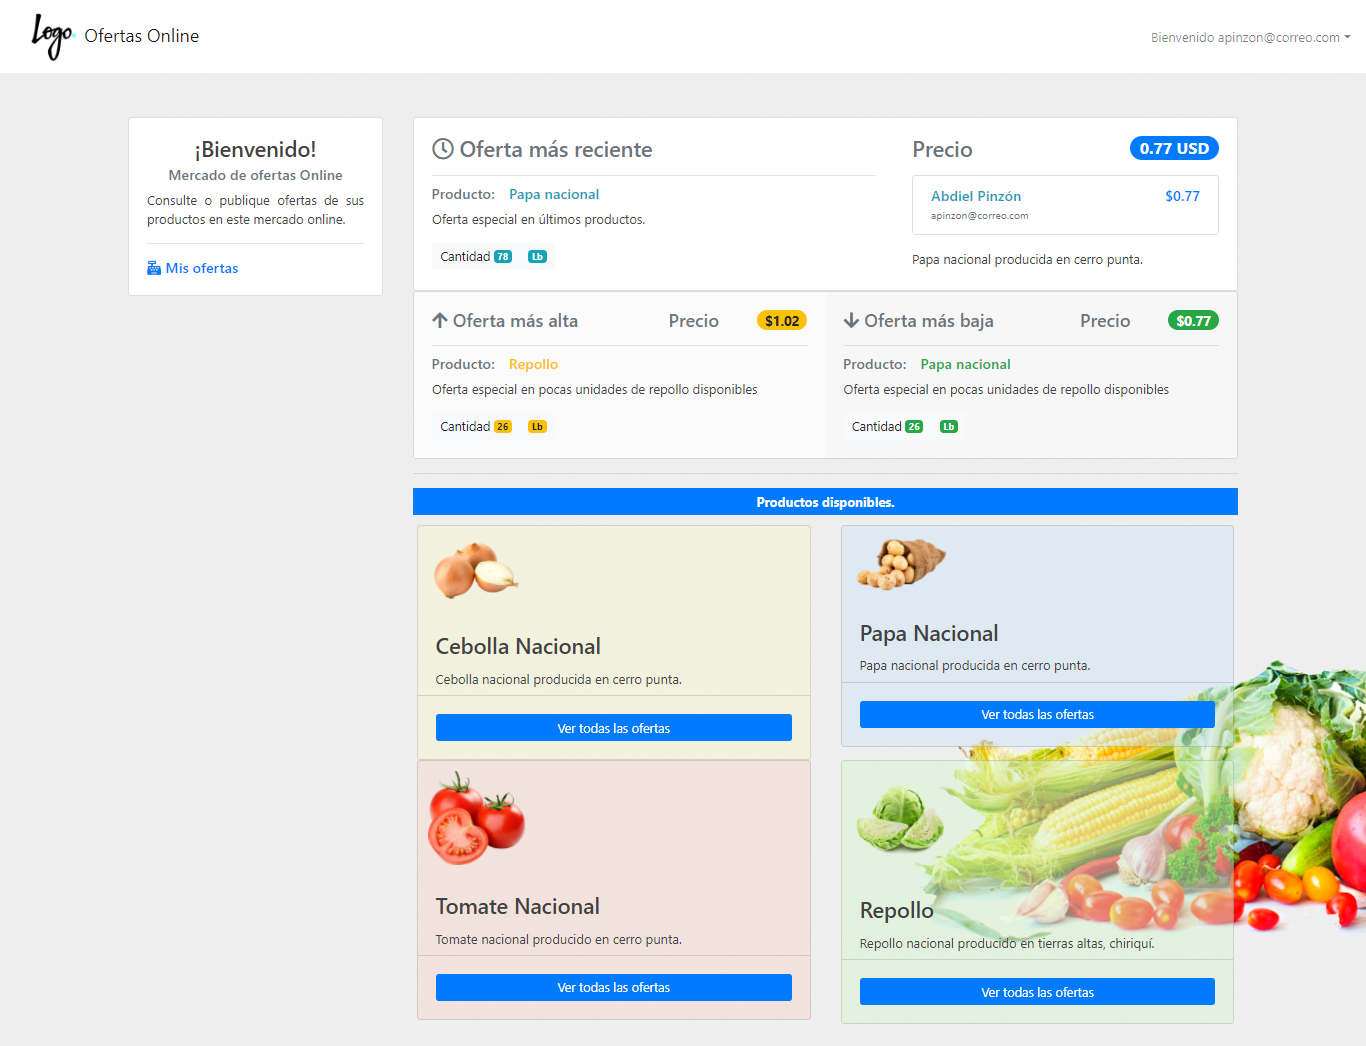
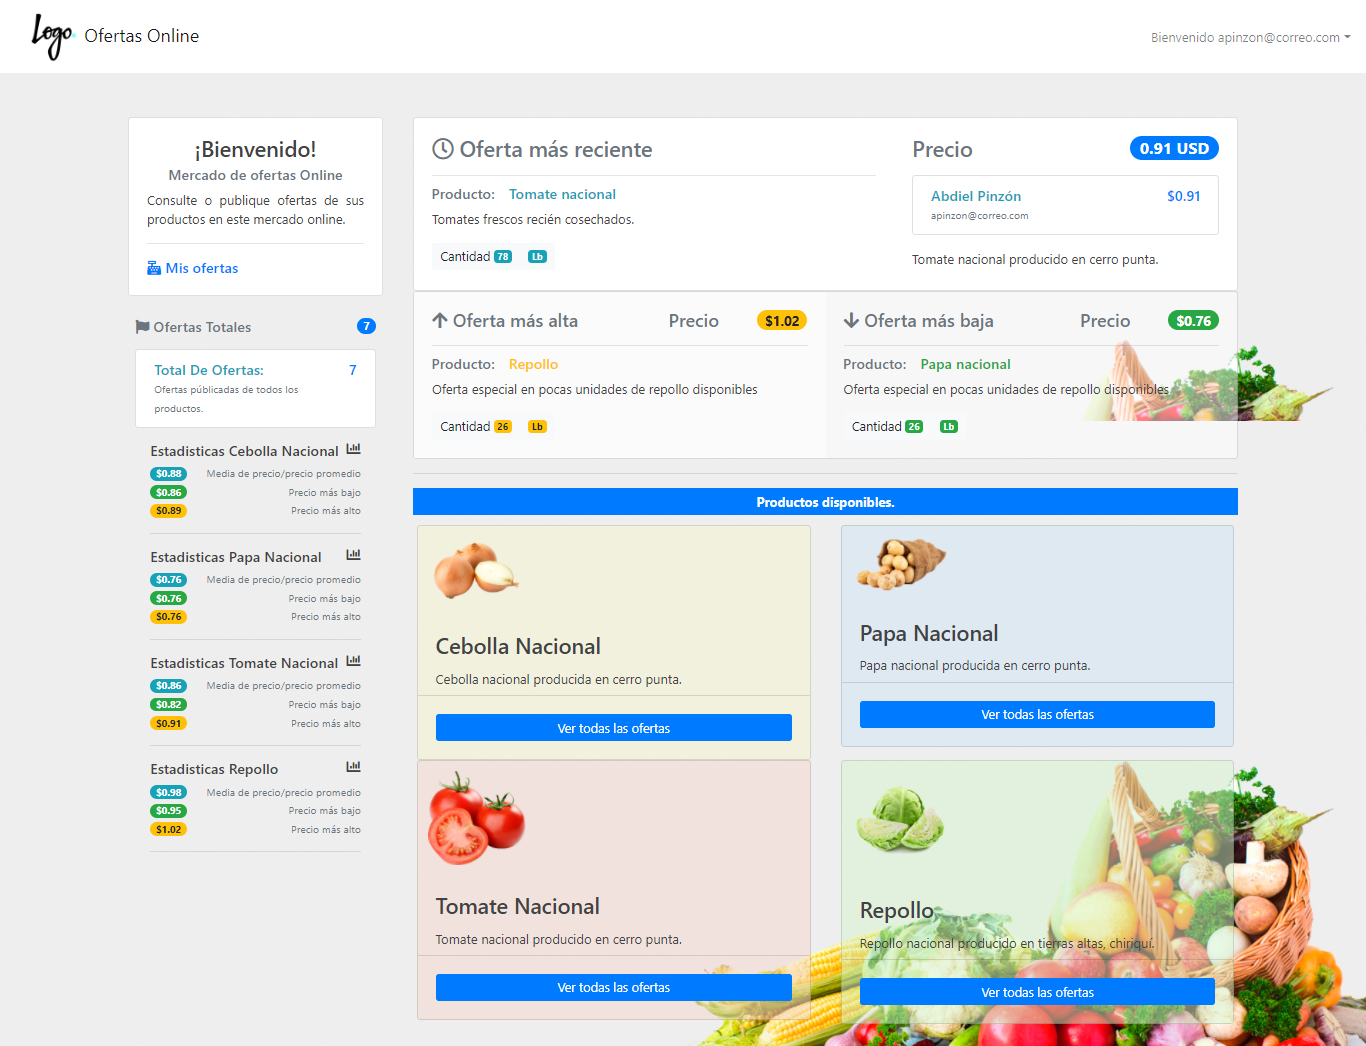
Se crean clases para consumir datos de estadisticas desde BD. Se agregan estilos de estadisticas en index.php

diff --git a/index.php b/index.php
@@ -63,11 +63,16 @@
             </div>
           </div>
                 <!-- TARJETAS  -->
-          <div class="card  bg-light p-2 mb-1">
+          <div class="p-2 mb-1">
             <div class="order-md-2">
               <h6 class="d-flex justify-content-between align-items-center mb-3">
                 <span class="text-muted"><i class="fas fa-flag"></i> Ofertas Totales </span>
-                <span class='badge badge-danger badge-pill'>##</span>
+                <?php
+                  require_once("php/estadisticas.php");
+                  foreach (estadisticas() as $key => $estadistica) {
+                    print "<span class='badge badge-primary badge-pill'>".$estadistica['total_ofertas']."</span>";
+                  }
+                ?> 
               </h6>
               <ul class="list-group mb-3">
                 <li class="list-group-item d-flex justify-content-between lh-condensed">
@@ -75,31 +80,146 @@
                     <h6 class='my-0 text-info text-capitalize'>Total de ofertas: </h6>
                     <small class='text-muted'>Ofertas públicadas de todos los productos.</small>
                   </div>
-                  <span class='text-primary h6'>##</span>
-                    
+                  <?php
+                    require_once("php/estadisticas.php");
+                    foreach (estadisticas() as $key => $estadistica) {
+                      print "<span class='text-primary h6'>".$estadistica['total_ofertas']."</span>";
+                    }
+                  ?> 
                 </li>
               </ul>
-              
+              <!-- ESTADISTICAS  -->
               <div class='col-md-12'>
-                <h6 class="mb-2">Estadisticas de (#producto#) <i class="fas fa-chart-bar"></i></h6>
-                <div class='d-flex justify-content-between mb-1'>
+                <h6 class="mb-2 d-flex d-flex justify-content-between">Estadisticas Cebolla Nacional <i class="fas fa-chart-bar"></i></h6>
+                <div class='d-flex justify-content-between align-items-center mb-1'>
+                <?php
+                  require_once("php/estadisticas.php");
+                  foreach (estadisticas() as $key => $estadistica) {
+                    print "<span class='badge badge-info badge-pill font-size-badge'>$".$estadistica['promedio_cebolla']."</span>";
+                  }
+                ?>
                   <small class='text-muted'>Media de precio/precio promedio</small>
-                  <span class='badge badge-info badge-pill font-size-badge'>$0.00</span>
                 </div>  
-                <div class='d-flex justify-content-between mb-1'>
+                <div class='d-flex justify-content-between align-items-center mb-1'>
+                <?php
+                  require_once("php/estadisticas.php");
+                  foreach (estadisticas() as $key => $estadistica) {
+                    print "<span class='badge badge-success badge-pill font-size-badge'>$".$estadistica['min_cebolla']."</span>";
+                  }
+                ?>
                   <small class='text-muted'>Precio más bajo</small>
-                  <span class='badge badge-success badge-pill font-size-badge'>$0.00</span>
                 </div>
-                <div class='d-flex justify-content-between mb-1'>
+                <div class='d-flex justify-content-between align-items-center mb-1'>
+                <?php
+                  require_once("php/estadisticas.php");
+                  foreach (estadisticas() as $key => $estadistica) {
+                    print "<span class='badge badge-warning badge-pill font-size-badge'>$".$estadistica['max_cebolla']."</span>";
+                  }
+                ?>
                   <small class='text-muted'>Precio más alto</small>
-                  <span class='badge badge-warning badge-pill font-size-badge'>$0.00</span>
                 </div> 
                 <hr> 
               </div>
 
+              <div class='col-md-12'>
+                <h6 class="mb-2 d-flex justify-content-between">Estadisticas Papa Nacional <i class="fas fa-chart-bar"></i></h6>
+                <div class='d-flex justify-content-between align-items-center mb-1'>
+                <?php
+                  require_once("php/estadisticas.php");
+                  foreach (estadisticas() as $key => $estadistica) {
+                    print "<span class='badge badge-info badge-pill font-size-badge'>$".$estadistica['promedio_papa']."</span>";
+                  }
+                ?>
+                  <small class='text-muted'>Media de precio/precio promedio</small>
+                </div>  
+                <div class='d-flex justify-content-between align-items-center mb-1'>
+                <?php
+                  require_once("php/estadisticas.php");
+                  foreach (estadisticas() as $key => $estadistica) {
+                    print "<span class='badge badge-success badge-pill font-size-badge'>$".$estadistica['min_papa']."</span>";
+                  }
+                ?>
+                  <small class='text-muted'>Precio más bajo</small>
+                </div>
+                <div class='d-flex justify-content-between align-items-center mb-1'>
+                <?php
+                  require_once("php/estadisticas.php");
+                  foreach (estadisticas() as $key => $estadistica) {
+                    print "<span class='badge badge-warning badge-pill font-size-badge'>$".$estadistica['max_papa']."</span>";
+                  }
+                ?>
+                  <small class='text-muted'>Precio más alto</small>
+                </div> 
+                <hr> 
+              </div>
+
+              <div class='col-md-12'>
+                <h6 class="mb-2 d-flex justify-content-between">Estadisticas Tomate Nacional <i class="fas fa-chart-bar"></i></h6>
+                <div class='d-flex justify-content-between align-items-center mb-1'>
+                <?php
+                  require_once("php/estadisticas.php");
+                  foreach (estadisticas() as $key => $estadistica) {
+                    print "<span class='badge badge-info badge-pill font-size-badge'>$".$estadistica['promedio_tomate']."</span>";
+                  }
+                ?>
+                  <small class='text-muted'>Media de precio/precio promedio</small>
+                </div>  
+                <div class='d-flex justify-content-between align-items-center mb-1'>
+                <?php
+                  require_once("php/estadisticas.php");
+                  foreach (estadisticas() as $key => $estadistica) {
+                    print "<span class='badge badge-success badge-pill font-size-badge'>$".$estadistica['min_tomate']."</span>";
+                  }
+                ?>
+                  <small class='text-muted'>Precio más bajo</small>
+                </div>
+                <div class='d-flex justify-content-between align-items-center mb-1'>
+                <?php
+                  require_once("php/estadisticas.php");
+                  foreach (estadisticas() as $key => $estadistica) {
+                    print "<span class='badge badge-warning badge-pill font-size-badge'>$".$estadistica['max_tomate']."</span>";
+                  }
+                ?>
+                  <small class='text-muted'>Precio más alto</small>
+                </div> 
+                <hr> 
+              </div>
+
+              <div class='col-md-12'>
+                <h6 class="mb-2 d-flex justify-content-between">Estadisticas Repollo <i class="fas fa-chart-bar"></i></h6>
+                <div class='d-flex justify-content-between align-items-center mb-1'>
+                <?php
+                  require_once("php/estadisticas.php");
+                  foreach (estadisticas() as $key => $estadistica) {
+                    print "<span class='badge badge-info badge-pill font-size-badge'>$".$estadistica['promedio_repollo']."</span>";
+                  }
+                ?>
+                  <small class='text-muted'>Media de precio/precio promedio</small>
+                </div>  
+                <div class='d-flex justify-content-between align-items-center mb-1'>
+                <?php
+                  require_once("php/estadisticas.php");
+                  foreach (estadisticas() as $key => $estadistica) {
+                    print "<span class='badge badge-success badge-pill font-size-badge'>$".$estadistica['min_repollo']."</span>";
+                  }
+                ?>
+                  <small class='text-muted'>Precio más bajo</small>
+                </div>
+                <div class='d-flex justify-content-between align-items-center mb-1'>
+                <?php
+                  require_once("php/estadisticas.php");
+                  foreach (estadisticas() as $key => $estadistica) {
+                    print "<span class='badge badge-warning badge-pill font-size-badge'>$".$estadistica['max_repollo']."</span>";
+                  }
+                ?>
+                  <small class='text-muted'>Precio más alto</small>
+                </div> 
+                <hr> 
+              </div>
+              <!-- FIN ESTADSTICAS  -->
+
             </div>
           </div>
-                <!-- HASTA AQUÍ  -->
         </div>
 
         <div class="col-md-9">

diff --git a/classes/producto.php b/classes/producto.php
@@ -17,5 +17,17 @@
               $this->__db->close();
           }
       }
+
+      public function get_estadisticas() {
+        $instruccion = "CALL sp_select_estadisticas()";
+        $consulta=$this->__db->query($instruccion);
+        $resultado=$consulta->fetch_all(MYSQLI_ASSOC);
+    
+        if ($resultado) {
+            return $resultado;
+            $resultado->close();
+            $this->__db->close();
+        }
+      }
   }  
 ?>

diff --git a/php/estadisticas.php b/php/estadisticas.php
@@ -1,0 +1,9 @@
+<?php
+    require_once("./classes/producto.php");
+
+    function estadisticas() {
+        $get_estadisticas = new producto();
+        $estadisticas = $get_estadisticas->get_estadisticas();
+        return $estadisticas;
+    }
+?>
